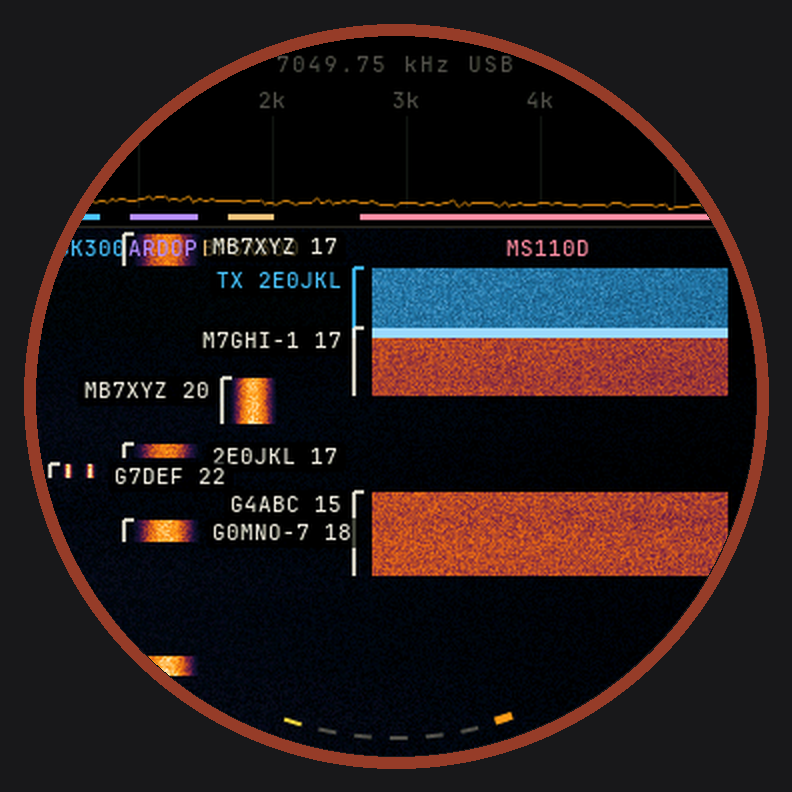
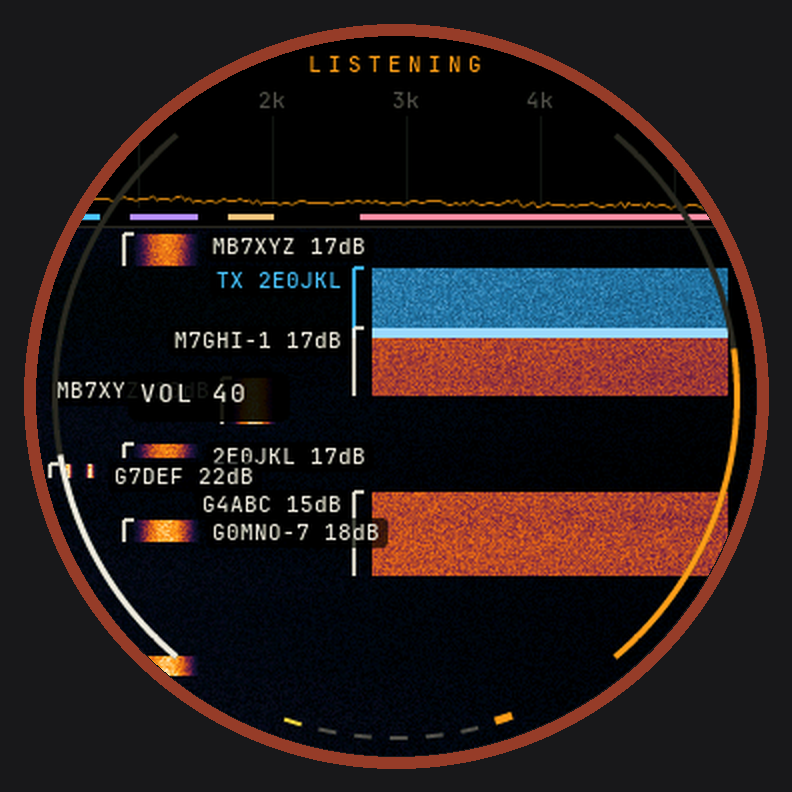
Waterfall page: tap to listen, bezel as volume while listening, dB on tags

diff --git a/ui/pages/waterfall.c b/ui/pages/waterfall.c
@@ -4,7 +4,9 @@
 // drawn on a cool ramp so they never read as a strong station. Above it, the
 // live spectrum trace, the audio scale and a bar under each modem's band.
 // Every decoded frame is tagged on its burst with the callsign and SNR, and
-// the tag scrolls down with it. Tap to show the modem names and RF scale.
+// the tag scrolls down with it. Modem names show for a few seconds on arrival.
+// Tap to listen: the station's receive audio plays on the knob, and the bezel
+// becomes the volume until you tap again or leave the page.
 #include <stdio.h>
 #include <stdlib.h>
 #include <string.h>
@@ -44,6 +46,10 @@ typedef struct {
     wf_tag_t tags[WF_TAGS];
     uint32_t tag_seq;
     uint32_t info_ms;
+    bool listen, audio_on;
+    int volume;
+    uint32_t vol_ms;               // last volume change, for the arc
+    float audio_db;
 } wf_t;
 
 static const uint32_t band_rgb[] = {0x4CC2FF, 0xB68CFF, 0xE8C27A, 0x6FE3C1, 0xFF8FA3, 0x9AD0FF, 0xD7E36F, 0xFFB86B};
@@ -174,9 +180,12 @@ static void draw_top(lv_layer_t *l, wf_t *s)
                     bd->name);
         }
     }
-    // Header: the station, then its dial.
+    // Header: the station, then its dial; while listening, the audio state.
     uint32_t age = s->now - s->shown_ms;
-    if (age < 3000 && !info) {
+    if (s->listen) {
+        const char *st = s->audio_on ? "LISTENING" : "STARTING AUDIO";
+        th_text(l, &font_mono_11, SCR_CX, 8, 200, LV_TEXT_ALIGN_CENTER, C_ACCENT, LV_OPA_COVER, 3, st);
+    } else if (age < 3000 && !info) {
         th_text(l, &font_sans_15, SCR_CX, 6, 200, LV_TEXT_ALIGN_CENTER, C_SUB, LV_OPA_COVER, 4, s->name);
     } else if (s->dial > 0) {
         snprintf(b, sizeof b, "%.2f kHz %s", s->dial / 1000.0, s->lsb ? "LSB" : "USB");
@@ -204,7 +213,7 @@ static void draw_tags(lv_layer_t *l, wf_t *s)
         th_line(l, x0 - 3, y_new, x0 - 3, y_old, 2, c, 220);
         th_line(l, x0 - 3, y_new, x0 + 2, y_new, 2, c, 220);
         if (isnan(t->snr_db)) snprintf(b, sizeof b, "%s", t->tx ? "TX" : t->from);
-        else snprintf(b, sizeof b, "%s %.0f", t->from, t->snr_db);
+        else snprintf(b, sizeof b, "%s %.0fdB", t->from, t->snr_db);
         if (t->tx) snprintf(b, sizeof b, "TX %s", t->to);
         if (k >= 8) continue;  // brackets on all, labels on the newest few
         // Label to the left of the band if it fits inside the glass at that height,
@@ -242,6 +251,29 @@ static void draw_body(lv_event_t *e)
     draw_top(l, s);
     draw_tags(l, s);
     th_line(l, SCR_CX - 180, WF_TOP - 1, SCR_CX + 180, WF_TOP - 1, 1, C_FAINT, LV_OPA_COVER);
+    if (s->listen) {
+        // Audio level: a thin bar round the right of the rim, live.
+        float lv = isnan(s->audio_db) ? 0 : fminf(1, fmaxf(0, (s->audio_db + 60) / 60));
+        th_arc(l, SCR_CX, SCR_CY, 172, 3, 40, 140, C_FAINT, LV_OPA_COVER);
+        if (lv > 0.01f) th_arc(l, SCR_CX, SCR_CY, 172, 3, 140 - 100 * lv, 140, C_ACCENT, LV_OPA_COVER);
+        // Volume: round the left of the rim, bright while it is being turned.
+        uint32_t since = s->now - s->vol_ms;
+        lv_opa_t o = since < 1500 ? LV_OPA_COVER : since < 2500 ? (lv_opa_t)(255 - 160 * (since - 1500) / 1000) : 95;
+        th_arc(l, SCR_CX, SCR_CY, 172, 3, 220, 320, C_FAINT, LV_OPA_COVER);
+        if (s->volume > 0) th_arc(l, SCR_CX, SCR_CY, 172, 3, 220, 220 + s->volume, C_INK, o);
+        if (since < 2500) {
+            char v[12];
+            snprintf(v, sizeof v, "VOL %d", s->volume);
+            lv_draw_rect_dsc_t bg;
+            lv_draw_rect_dsc_init(&bg);
+            bg.bg_color = C_BG;
+            bg.bg_opa = (lv_opa_t)(o * 220 / 255);
+            bg.radius = 6;
+            lv_area_t a = {SCR_CX - 134, SCR_CY - 12, SCR_CX - 54, SCR_CY + 12};
+            lv_draw_rect(l, &bg, &a);
+            th_text(l, &font_mono_13, SCR_CX - 128, SCR_CY - 8, 80, LV_TEXT_ALIGN_LEFT, C_INK, o, 1, v);
+        }
+    }
     if (!s->up)
         th_text(l, &font_mono_11, SCR_CX, SCR_CY, 160, LV_TEXT_ALIGN_CENTER, C_CRIT, LV_OPA_COVER, 2,
                 s->have_rows ? "STALE" : "CONNECTING");
@@ -253,6 +285,7 @@ static void create(page_t *p, lv_obj_t *root)
 {
     wf_t *s = calloc(1, sizeof *s);
     p->state = s;
+    s->volume = 40;
     s->canvas = lv_obj_create(root);
     lv_obj_remove_style_all(s->canvas);
     lv_obj_set_size(s->canvas, SCR_W, SCR_H);
@@ -280,7 +313,11 @@ static void tick(page_t *p, uint32_t now, uint32_t dt, bool visible)
 {
     wf_t *s = p->state;
     s->now = now;
-    if (visible && !s->was_visible) s->shown_ms = now;
+    if (visible && !s->was_visible) {
+        s->shown_ms = now;
+        s->info_ms = now;
+    }
+    if (!visible && s->listen) s->listen = false;  // leaving the page stops the audio
     s->was_visible = visible;
     uint8_t rows[8][WF_W], txf[8];
     int nr = 0;
@@ -300,6 +337,10 @@ static void tick(page_t *p, uint32_t now, uint32_t dt, bool visible)
     s->tag_seq = g_model.wf_tag_seq;
     memcpy(spec, g_model.wf_spec, sizeof spec);
     uint32_t seq = g_model.wf_row_seq;
+    g_model.wf_listen = s->listen;
+    g_model.wf_volume = (uint8_t)s->volume;
+    s->audio_on = g_model.wf_audio_on;
+    s->audio_db = g_model.wf_audio_dbfs;
     // Take the rows we have not folded in yet (if we fell far behind, the newest).
     uint32_t from = s->seen_row;
     if (seq - from > WF_ROWS) from = seq - WF_ROWS;
@@ -320,7 +361,20 @@ static void tick(page_t *p, uint32_t now, uint32_t dt, bool visible)
 static void tap(page_t *p, int x, int y)
 {
     wf_t *s = p->state;
-    s->info_ms = s->now - s->info_ms < INFO_MS ? 0 : s->now;
+    if (!s->configured) return;
+    s->listen = !s->listen;
+    if (s->listen) s->vol_ms = s->now;  // show the volume as listening starts
+}
+
+static bool knob(page_t *p, int delta)
+{
+    wf_t *s = p->state;
+    if (!s->listen) return false;
+    s->volume = s->volume + delta * 5;
+    if (s->volume < 0) s->volume = 0;
+    if (s->volume > 100) s->volume = 100;
+    s->vol_ms = s->now;
+    return true;
 }
 
 static alert_level_t status(page_t *p, char *why, int len)
@@ -335,5 +389,5 @@ static alert_level_t status(page_t *p, char *why, int len)
 
 const page_type_t page_waterfall = {
     .type = "waterfall", .label = "Waterfall", .create = create, .destroy = destroy,
-    .tick = tick, .tap = tap, .status = status,
+    .tick = tick, .tap = tap, .knob = knob, .status = status,
 };

diff --git a/sim/main.c b/sim/main.c
@@ -279,6 +279,9 @@ static void fake_waterfall(void)
         next_row_at = s_now;
         next_burst_at = s_now + 500;
     }
+    // Pretend to be the device's audio side.
+    g_model.wf_audio_on = g_model.wf_listen;
+    g_model.wf_audio_dbfs = g_model.wf_listen ? -38 + frand() * 18 : NAN;
     if (s_now < next_row_at) return;
     next_row_at += 133;  // 7.5 rows a second
     uint32_t row = g_model.wf_row_seq;
@@ -489,6 +492,8 @@ int main(int argc, char **argv)
         s_pressed = false;
         if (!strcmp(scen, "rooms") && ts >= 0.6f && ts < 0.62f) ui_knob(-2);
         if (!strcmp(scen, "sky") && ts >= 0.6f && ts < 0.62f) ui_knob(-1);
+        // Waterfall: after the tap at 44 s starts listening, turn the volume up.
+        if (!strcmp(scen, "waterfall") && ts >= 45.0f && ts < 47.0f && ((int)(ts * 1000) % 400) < 11) ui_knob(1);
         if (!strcmp(scen, "rooms")) {
             // 3 s: tap the middle to edit; 3.6, 4.0, 4.4 s: three clicks up; then it saves itself.
             // 11 s: tap the right edge for the next room.

diff --git a/ui/model.h b/ui/model.h
@@ -203,6 +203,13 @@ typedef struct {
     uint8_t wf_spec[WF_W];      // the latest spectrum line, same scale, for the trace
     wf_tag_t wf_tags[WF_TAGS];  // ring, newest at (wf_tag_seq - 1) % WF_TAGS
     uint32_t wf_tag_seq;
+    // Listening: the page sets wf_listen and wf_volume; the device asks the
+    // station for its receive audio while wf_listen is true, plays it, and
+    // reports back.
+    bool wf_listen;
+    uint8_t wf_volume;          // 0..100
+    bool wf_audio_on;           // audio is arriving and playing
+    float wf_audio_dbfs;        // recent audio level, for a meter; NAN if none
 } model_t;
 
 extern model_t g_model;
